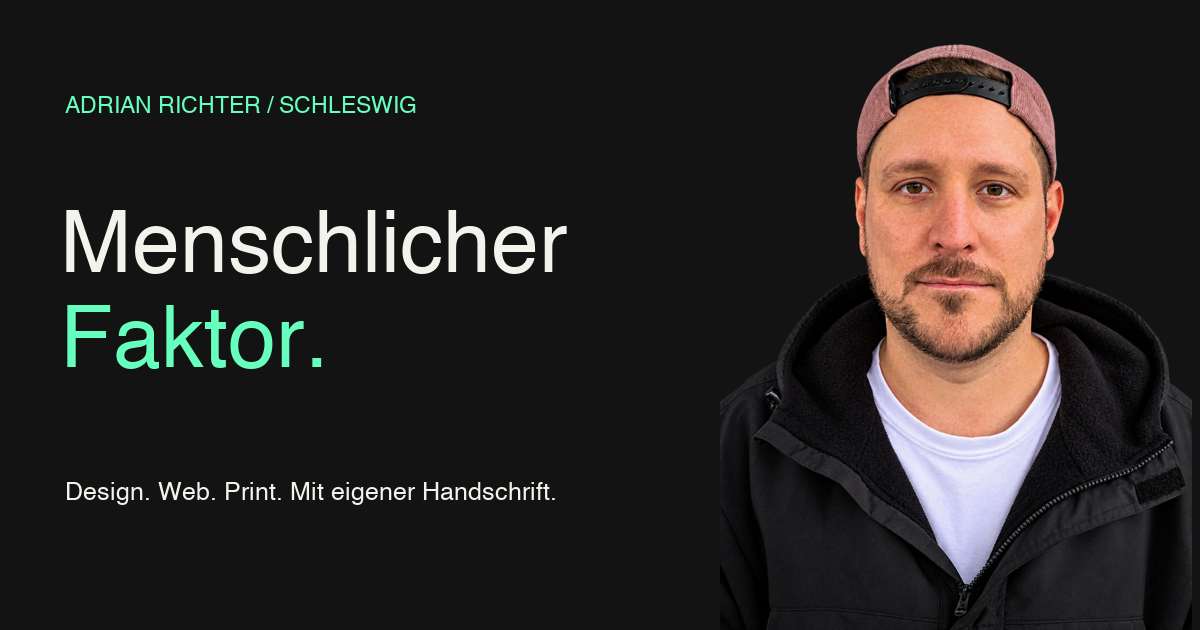
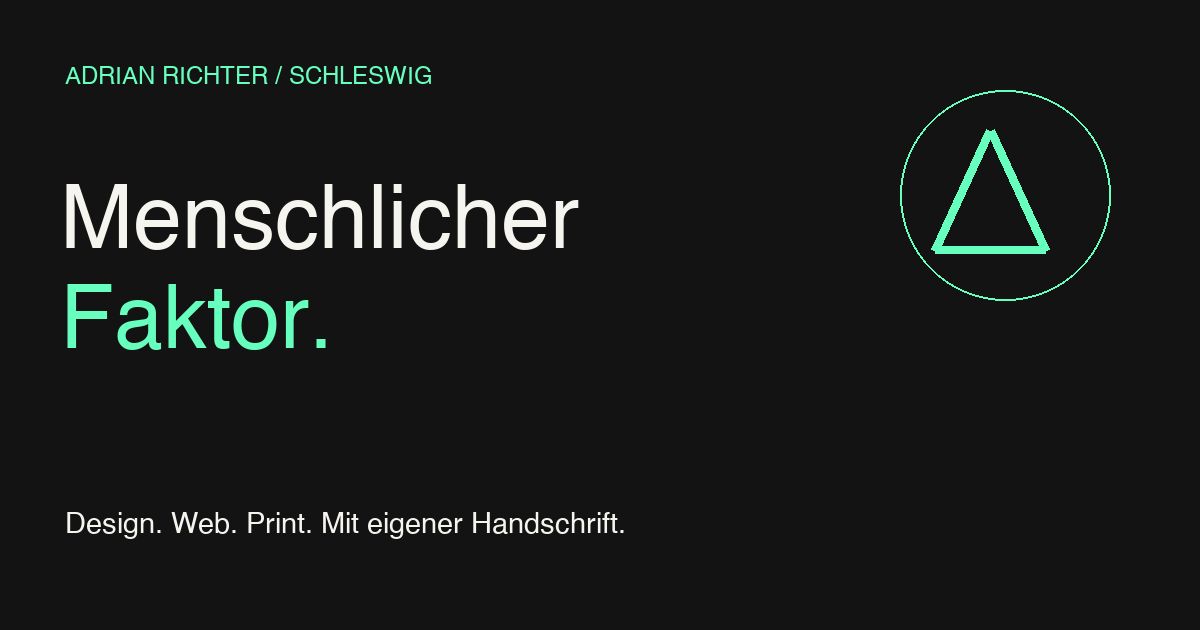
Remove personal portrait, private street address and mobile contact; use email only

diff --git a/index.html b/index.html
@@ -30,7 +30,6 @@
       "url": "https://adrian-richter.com/",
       "logo": "https://adrian-richter.com/assets/adrian-mark-v3.svg",
       "email": "info@adrian-richter.com",
-      "telephone": "+4915736156145",
       "address": {
         "@type": "PostalAddress",
         "addressLocality": "Schleswig",
@@ -200,7 +199,7 @@
 }
   </script>
   <meta name="google-site-verification" content="sLmgf6_W5lPfewiorRhV-o1hQEb-fwKDVVbG4sLzzjY">
-  <link rel="stylesheet" href="facelift.css?v=20261012-3">
+  <link rel="stylesheet" href="facelift.css?v=20261016-privacy">
   <meta property="og:image" content="https://adrian-richter.com/assets/social-card.png">
   <meta name="twitter:card" content="summary_large_image">
 </head>
@@ -238,14 +237,6 @@
         <p class="hero-intro">Technologie kann viel. Charakter braucht ein gutes Auge. Ich gestalte Marken, Websites und Print, die nach dir aussehen.</p>
         <div class="hero-actions"><a class="button button-primary" href="projekt-starten.html">Dein Projekt starten ↗</a><a class="text-link" href="#projekte">Arbeiten entdecken ↓</a></div>
         <p class="hero-caption">Menschliche Ideen. Digitale Möglichkeiten.</p><button class="motion-toggle" type="button" aria-pressed="false">Bewegung pausieren</button>
-      </div>
-      <div class="portrait-stage">
-        <div class="portrait-orbit" aria-hidden="true"></div>
-        <div class="portrait" id="portrait">
-          <img src="assets/adrian-human.webp" width="1024" height="1365" alt="Adrian Richter, Designer aus Schleswig, mit Cap und schwarzer Jacke" fetchpriority="high">
-          <img class="portrait-machine" src="assets/adrian-machine.webp" width="1024" height="1365" alt="" aria-hidden="true" loading="lazy">
-        </div>
-        <div class="portrait-label"><span>01 / HUMAN × MACHINE</span><button class="reveal-toggle" type="button" aria-pressed="false" aria-controls="portrait">Maschinenseite entdecken</button><small>Bewege den Zeiger über das Porträt · oder tippe auf den Button</small></div>
       </div>
       <div class="hero-index"><span>01 / Brand Design</span><span>02 / Webdesign</span><span>03 / Print & Editorial</span><span>04 / Textil</span></div>
     </section>
@@ -389,7 +380,7 @@
         <h2 id="services-title">Von der Idee bis zur Anwendung.</h2>
         <p>Kein Baukasten-Look. Ich entwickle Gestaltung, die zu deinem Unternehmen passt und auf Website, Papier und im Raum konsistent bleibt.</p>
         <h3>Webdesign und Grafikdesign aus Schleswig. Für den Norden.</h3>
-        <p>Mein Standort ist Schleswig. Ich begleite Unternehmen aus Schleswig und Umgebung sowie aus Eckernförde, Flensburg, Rendsburg, Kiel und Lübeck bei Webdesign, Logoentwicklung und Printgestaltung. Die Abstimmung läuft direkt mit mir — telefonisch, per E-Mail und digital.</p>
+        <p>Mein Standort ist Schleswig. Ich begleite Unternehmen aus Schleswig und Umgebung sowie aus Eckernförde, Flensburg, Rendsburg, Kiel und Lübeck bei Webdesign, Logoentwicklung und Printgestaltung. Die Abstimmung läuft direkt mit mir — per E-Mail.</p>
       </div>
       <ol class="service-list">
         <li class="reveal"><span>01</span><h3>Logo &amp; Corporate Design</h3><p>Ein eigener Auftritt für dein Unternehmen: Logoentwicklung, passende Farben und Typografie. Ein Corporate Design, das auf der Website, auf Visitenkarten und auf Werbemitteln zusammenpasst.</p></li>
@@ -418,14 +409,13 @@
       </div>
     </section>
 
-<section class="faq section" id="fragen" aria-labelledby="faq-title"><div class="section-head"><div><p class="eyebrow">Gut zu wissen / Antworten von Adrian Richter</p><h2 id="faq-title">Gute Fragen.<br>Klare Antworten.</h2></div><p>Über Websites, Logos, Corporate Identity und Druckgestaltung. Was du vor deinem Projekt wissen möchtest.</p></div><details><summary>Was kostet eine professionelle Website?</summary><p>Der Preis hängt von Umfang und Funktionen ab: Ein kompakter Unternehmensauftritt braucht weniger Aufwand als eine Website mit vielen Inhaltsseiten, individuellen Schnittstellen oder Buchungssystem. Konzept, Texte, Bilder, Gestaltung und technische Umsetzung gehören in die Kalkulation. Hosting, Domain und laufende Pflege sollten separat ausgewiesen sein. Beschreibe mir dein Vorhaben – du erhältst ein Angebot mit nachvollziehbarem Leistungsumfang.</p></details><details><summary>Kann ich mit KI selbst eine Website erstellen?</summary><p>Ja. Für einen ersten Entwurf oder einen einfachen Auftritt können KI-Werkzeuge hilfreich sein. Prüfe anschließend Inhalte, mobile Darstellung, Ladezeit, Bedienbarkeit und die technische Pflege. Für einen geschäftlichen Auftritt ist außerdem entscheidend, ob Gestaltung und Nutzerführung zu deiner Marke und deinen Kunden passen. Ich kann einen vorhandenen Entwurf prüfen oder daraus einen individuellen Auftritt entwickeln.</p></details><details><summary>Warum einen professionellen Designer beauftragen, wenn es KI gibt?</summary><p>KI liefert Varianten. Ein Designer bewertet, welche davon deine Botschaft verständlich macht und über verschiedene Medien hinweg funktioniert. Dazu gehören Lesbarkeit, Hierarchie, ein wiedererkennbares Erscheinungsbild und passende Druckdaten. Mein Beitrag ist die gestalterische Entscheidung und ein zusammenhängendes Ergebnis – mit KI dort, wo sie das Projekt sinnvoll unterstützt.</p></details><details><summary>Was ist der Unterschied zwischen Corporate Identity und Corporate Design?</summary><p>Corporate Identity umfasst die Identität eines Unternehmens: Werte, Verhalten, Sprache und Erscheinungsbild. Corporate Design ist der visuelle Teil davon, etwa Logo, Farben, Schriften, Bildsprache und Layoutregeln. Ein neues Logo allein ist deshalb noch keine vollständige CI. Gemeinsam klären wir, welchen Umfang dein Unternehmen tatsächlich braucht.</p></details><details><summary>Betreust du auch Unternehmen in Kiel und Eckernförde?</summary><p>Mein Standort ist Schleswig. Ich begleite auch Unternehmen aus Kiel, Eckernförde und anderen Orten in Schleswig-Holstein. Die Abstimmung erfolgt direkt mit mir per Telefon, E-Mail oder digital. Für ein erstes Gespräch brauche ich vor allem Informationen zu deinem Unternehmen, deiner Zielgruppe und deinem Vorhaben.</p></details><details><summary>Wie lange dauert es, eine Website erstellen zu lassen?</summary><p>Das richtet sich nach Seitenumfang, Funktionen und der Verfügbarkeit von Texten, Fotos und Rückmeldungen. Nach dem ersten Gespräch vereinbaren wir einen realistischen Ablauf mit Konzept, Entwurf, Umsetzung und gemeinsamer Prüfung. Nenne deinen Wunschtermin in der Projektanfrage, damit ich die Machbarkeit prüfen kann.</p></details><details><summary>Was macht eine gute Unternehmenswebsite aus?</summary><p>Besucher sollten schnell verstehen, was du anbietest, für wen du arbeitest und wie sie dich erreichen. Klare Inhalte, echte Referenzen, gut lesbare mobile Seiten und kurze Ladezeiten unterstützen das. Animationen ergänzen die Gestaltung, ohne Informationen oder Kontaktwege zu verdecken.</p></details><details><summary>Hilft Suchmaschinenoptimierung auch bei KI-Suchergebnissen?</summary><p>Klare, hilfreiche Inhalte und technisch zugängliche Seiten erleichtern Suchsystemen das Verständnis. Eindeutige Leistungen, nachvollziehbare Referenzen und konkrete Antworten sind dafür eine gute Grundlage. Eine bestimmte Position bei Google oder eine Nennung in KI-Antworten lässt sich jedoch nicht zusichern.</p></details><details><summary>Was brauchst du für eine Projektanfrage?</summary><p>Eine kurze Beschreibung deines Unternehmens, die gewünschte Leistung und dein Ziel reichen für den Einstieg. Hilfreich sind außerdem vorhandene Logos, eine bestehende Website, ein Wunschtermin und ein Budgetrahmen. Im Projektformular kannst du Branding, Webdesign, Print und DTF-Textildruck auswählen.</p></details><details><summary>Kann ich bei dir Flyer gestalten lassen?</summary><p>Ja. Ich gestalte Flyer, Faltblätter, Plakate, Visitenkarten und Broschüren passend zu deinem Unternehmen. Dazu gehören eine klare Aufteilung, gut lesbare Texte und druckfertige Daten. Sag mir, was beworben werden soll, welches Format du brauchst und ob Texte, Bilder oder ein Logo bereits vorhanden sind.</p></details><details><summary>Was kostet die Gestaltung eines Flyers oder Logos?</summary><p>Als grober Orientierungsrahmen können kleinere Grafikprojekte zwischen 100 und 800 Euro liegen – je nach Aufwand und vereinbartem Umfang. Ein einfacher Flyer mit fertigen Inhalten braucht weniger Zeit als ein individueller Entwurf mit Bildbearbeitung oder einer zusätzlichen Logoentwicklung. Bei Logos spielen unter anderem die gestalterische Komplexität, Varianten und gewünschte Anwendungen eine Rolle. Umfangreichere Projekte können darüber liegen. Du erhältst vorab ein individuelles Angebot; der Rahmen ist kein Pauschalpreis und umfasst nicht automatisch Druckkosten.</p></details><details><summary>Was gehört zu einem Corporate Design?</summary><p>Je nach Bedarf gehören Logo, Farbwelt, Schriften, Bildsprache und verbindliche Gestaltungsregeln dazu. Daraus können Vorlagen für Visitenkarten, Briefpapier, Social Media, Website oder Arbeitskleidung entstehen. Wir legen gemeinsam fest, welche Anwendungen du wirklich brauchst – damit dein Auftritt im Alltag zusammenpasst.</p></details><details><summary>Brauche ich als kleines Unternehmen eine komplette Corporate Identity?</summary><p>Nicht jedes Unternehmen braucht zum Start ein großes Markenhandbuch. Wichtig ist zuerst Klarheit darüber, wofür du stehst, wen du erreichen möchtest und wie du auftrittst. Ein passendes Logo mit einer durchdachten visuellen Basis kann ein sinnvoller Einstieg sein. Wenn Positionierung, Sprache und mehrere Anwendungen dazukommen, entwickeln wir den Umfang gemeinsam weiter.</p></details><details><summary>Kannst du mein vorhandenes Logo überarbeiten?</summary><p>Ja. Ob eine behutsame Überarbeitung oder eine Neuentwicklung sinnvoll ist, hängt von deinem Ziel und den vorhandenen Dateien ab. Wir schauen auf Lesbarkeit, Wiedererkennung und den Einsatz auf Website, Papier und Textilien. Vor Beginn klären wir, was erhalten bleibt und welche Dateien du am Ende benötigst.</p></details><details><summary>Übernimmst du auch Druckdaten und die Vorbereitung für die Druckerei?</summary><p>Ja. Ich bereite die vereinbarten Gestaltungsergebnisse passend zu den Vorgaben der Druckerei auf – etwa mit korrektem Format, Beschnitt und geeigneten Bilddaten. Ob nur die Gestaltung oder auch die Abstimmung zur Produktion gewünscht ist, klären wir im Angebot. Druck, Material und Versand werden getrennt vom Gestaltungsaufwand betrachtet.</p></details><details><summary>Was muss ich für einen Flyer oder ein Logo mitbringen?</summary><p>Hilfreich sind dein Unternehmensname, eine kurze Beschreibung deiner Zielgruppe, der gewünschte Einsatz und vorhandene Texte, Bilder oder Markenunterlagen. Für Flyer brauche ich außerdem Format, Inhalt und Termin. Wenn noch Material fehlt, klären wir gemeinsam, welche Unterstützung im Projektumfang enthalten sein soll.</p></details><p class="faq-next"><a class="text-link" href="projekt-starten.html">Deine Frage ist noch offen? Lass uns sprechen ↗</a></p></section>
+<section class="faq section" id="fragen" aria-labelledby="faq-title"><div class="section-head"><div><p class="eyebrow">Gut zu wissen / Antworten von Adrian Richter</p><h2 id="faq-title">Gute Fragen.<br>Klare Antworten.</h2></div><p>Über Websites, Logos, Corporate Identity und Druckgestaltung. Was du vor deinem Projekt wissen möchtest.</p></div><details><summary>Was kostet eine professionelle Website?</summary><p>Der Preis hängt von Umfang und Funktionen ab: Ein kompakter Unternehmensauftritt braucht weniger Aufwand als eine Website mit vielen Inhaltsseiten, individuellen Schnittstellen oder Buchungssystem. Konzept, Texte, Bilder, Gestaltung und technische Umsetzung gehören in die Kalkulation. Hosting, Domain und laufende Pflege sollten separat ausgewiesen sein. Beschreibe mir dein Vorhaben – du erhältst ein Angebot mit nachvollziehbarem Leistungsumfang.</p></details><details><summary>Kann ich mit KI selbst eine Website erstellen?</summary><p>Ja. Für einen ersten Entwurf oder einen einfachen Auftritt können KI-Werkzeuge hilfreich sein. Prüfe anschließend Inhalte, mobile Darstellung, Ladezeit, Bedienbarkeit und die technische Pflege. Für einen geschäftlichen Auftritt ist außerdem entscheidend, ob Gestaltung und Nutzerführung zu deiner Marke und deinen Kunden passen. Ich kann einen vorhandenen Entwurf prüfen oder daraus einen individuellen Auftritt entwickeln.</p></details><details><summary>Warum einen professionellen Designer beauftragen, wenn es KI gibt?</summary><p>KI liefert Varianten. Ein Designer bewertet, welche davon deine Botschaft verständlich macht und über verschiedene Medien hinweg funktioniert. Dazu gehören Lesbarkeit, Hierarchie, ein wiedererkennbares Erscheinungsbild und passende Druckdaten. Mein Beitrag ist die gestalterische Entscheidung und ein zusammenhängendes Ergebnis – mit KI dort, wo sie das Projekt sinnvoll unterstützt.</p></details><details><summary>Was ist der Unterschied zwischen Corporate Identity und Corporate Design?</summary><p>Corporate Identity umfasst die Identität eines Unternehmens: Werte, Verhalten, Sprache und Erscheinungsbild. Corporate Design ist der visuelle Teil davon, etwa Logo, Farben, Schriften, Bildsprache und Layoutregeln. Ein neues Logo allein ist deshalb noch keine vollständige CI. Gemeinsam klären wir, welchen Umfang dein Unternehmen tatsächlich braucht.</p></details><details><summary>Betreust du auch Unternehmen in Kiel und Eckernförde?</summary><p>Mein Standort ist Schleswig. Ich begleite auch Unternehmen aus Kiel, Eckernförde und anderen Orten in Schleswig-Holstein. Die Abstimmung erfolgt direkt mit mir per E-Mail. Für ein erstes Gespräch brauche ich vor allem Informationen zu deinem Unternehmen, deiner Zielgruppe und deinem Vorhaben.</p></details><details><summary>Wie lange dauert es, eine Website erstellen zu lassen?</summary><p>Das richtet sich nach Seitenumfang, Funktionen und der Verfügbarkeit von Texten, Fotos und Rückmeldungen. Nach dem ersten Gespräch vereinbaren wir einen realistischen Ablauf mit Konzept, Entwurf, Umsetzung und gemeinsamer Prüfung. Nenne deinen Wunschtermin in der Projektanfrage, damit ich die Machbarkeit prüfen kann.</p></details><details><summary>Was macht eine gute Unternehmenswebsite aus?</summary><p>Besucher sollten schnell verstehen, was du anbietest, für wen du arbeitest und wie sie dich erreichen. Klare Inhalte, echte Referenzen, gut lesbare mobile Seiten und kurze Ladezeiten unterstützen das. Animationen ergänzen die Gestaltung, ohne Informationen oder Kontaktwege zu verdecken.</p></details><details><summary>Hilft Suchmaschinenoptimierung auch bei KI-Suchergebnissen?</summary><p>Klare, hilfreiche Inhalte und technisch zugängliche Seiten erleichtern Suchsystemen das Verständnis. Eindeutige Leistungen, nachvollziehbare Referenzen und konkrete Antworten sind dafür eine gute Grundlage. Eine bestimmte Position bei Google oder eine Nennung in KI-Antworten lässt sich jedoch nicht zusichern.</p></details><details><summary>Was brauchst du für eine Projektanfrage?</summary><p>Eine kurze Beschreibung deines Unternehmens, die gewünschte Leistung und dein Ziel reichen für den Einstieg. Hilfreich sind außerdem vorhandene Logos, eine bestehende Website, ein Wunschtermin und ein Budgetrahmen. Im Projektformular kannst du Branding, Webdesign, Print und DTF-Textildruck auswählen.</p></details><details><summary>Kann ich bei dir Flyer gestalten lassen?</summary><p>Ja. Ich gestalte Flyer, Faltblätter, Plakate, Visitenkarten und Broschüren passend zu deinem Unternehmen. Dazu gehören eine klare Aufteilung, gut lesbare Texte und druckfertige Daten. Sag mir, was beworben werden soll, welches Format du brauchst und ob Texte, Bilder oder ein Logo bereits vorhanden sind.</p></details><details><summary>Was kostet die Gestaltung eines Flyers oder Logos?</summary><p>Als grober Orientierungsrahmen können kleinere Grafikprojekte zwischen 100 und 800 Euro liegen – je nach Aufwand und vereinbartem Umfang. Ein einfacher Flyer mit fertigen Inhalten braucht weniger Zeit als ein individueller Entwurf mit Bildbearbeitung oder einer zusätzlichen Logoentwicklung. Bei Logos spielen unter anderem die gestalterische Komplexität, Varianten und gewünschte Anwendungen eine Rolle. Umfangreichere Projekte können darüber liegen. Du erhältst vorab ein individuelles Angebot; der Rahmen ist kein Pauschalpreis und umfasst nicht automatisch Druckkosten.</p></details><details><summary>Was gehört zu einem Corporate Design?</summary><p>Je nach Bedarf gehören Logo, Farbwelt, Schriften, Bildsprache und verbindliche Gestaltungsregeln dazu. Daraus können Vorlagen für Visitenkarten, Briefpapier, Social Media, Website oder Arbeitskleidung entstehen. Wir legen gemeinsam fest, welche Anwendungen du wirklich brauchst – damit dein Auftritt im Alltag zusammenpasst.</p></details><details><summary>Brauche ich als kleines Unternehmen eine komplette Corporate Identity?</summary><p>Nicht jedes Unternehmen braucht zum Start ein großes Markenhandbuch. Wichtig ist zuerst Klarheit darüber, wofür du stehst, wen du erreichen möchtest und wie du auftrittst. Ein passendes Logo mit einer durchdachten visuellen Basis kann ein sinnvoller Einstieg sein. Wenn Positionierung, Sprache und mehrere Anwendungen dazukommen, entwickeln wir den Umfang gemeinsam weiter.</p></details><details><summary>Kannst du mein vorhandenes Logo überarbeiten?</summary><p>Ja. Ob eine behutsame Überarbeitung oder eine Neuentwicklung sinnvoll ist, hängt von deinem Ziel und den vorhandenen Dateien ab. Wir schauen auf Lesbarkeit, Wiedererkennung und den Einsatz auf Website, Papier und Textilien. Vor Beginn klären wir, was erhalten bleibt und welche Dateien du am Ende benötigst.</p></details><details><summary>Übernimmst du auch Druckdaten und die Vorbereitung für die Druckerei?</summary><p>Ja. Ich bereite die vereinbarten Gestaltungsergebnisse passend zu den Vorgaben der Druckerei auf – etwa mit korrektem Format, Beschnitt und geeigneten Bilddaten. Ob nur die Gestaltung oder auch die Abstimmung zur Produktion gewünscht ist, klären wir im Angebot. Druck, Material und Versand werden getrennt vom Gestaltungsaufwand betrachtet.</p></details><details><summary>Was muss ich für einen Flyer oder ein Logo mitbringen?</summary><p>Hilfreich sind dein Unternehmensname, eine kurze Beschreibung deiner Zielgruppe, der gewünschte Einsatz und vorhandene Texte, Bilder oder Markenunterlagen. Für Flyer brauche ich außerdem Format, Inhalt und Termin. Wenn noch Material fehlt, klären wir gemeinsam, welche Unterstützung im Projektumfang enthalten sein soll.</p></details><p class="faq-next"><a class="text-link" href="projekt-starten.html">Deine Frage ist noch offen? Schreib mir ↗</a></p></section>
     <section class="contact section" id="kontakt" aria-labelledby="contact-title">
       <p class="eyebrow">Lass uns loslegen</p>
       <h2 id="contact-title">Dein nächstes Projekt verdient einen starken Auftritt.</h2>
       <a class="button button-primary contact-cta" href="projekt-starten.html">Projekt starten <span aria-hidden="true">↗</span></a>
       <div class="contact-row">
         <a href="mailto:info@adrian-richter.com?subject=Projektanfrage%20über%20adrian-richter.com">info@adrian-richter.com <span aria-hidden="true">↗</span></a>
-        <a href="tel:+4915736156145">0157 361 561 45</a>
       </div>
     </section>
   </main>
@@ -451,6 +441,6 @@
   </aside>
 
   <script src="script.js?v=20260930-4"></script>
-  <script src="facelift.js?v=20261012-2" defer></script>
+  <script src="facelift.js?v=20261016-privacy" defer></script>
 </body>
 </html>

diff --git a/webdesign-schleswig.html b/webdesign-schleswig.html
@@ -20,7 +20,7 @@
     </nav>
   </header>
 
-<main id="main" class="service-page section"><p class="eyebrow">AR.DESIGN / Adrian Richter</p><h1>Webdesign aus Schleswig.</h1><p class="service-lead">Dein Unternehmen ist eigenständig. Deine Website sollte es auch sein.</p><a class="button button-primary" href="projekt-starten.html">Projekt besprechen ↗</a><div class="service-content"><section><h2>Eine Website beginnt mit deinen Kunden</h2><p>Welche Informationen suchen Besucher? Welche Fragen müssen beantwortet werden, bevor jemand Kontakt aufnimmt? Daraus entwickle ich die Seitenstruktur und eine Gestaltung, die zu deinem Unternehmen passt. Vom kompakten Auftritt bis zum Relaunch einer bestehenden Website.</p></section><section><h2>Gestaltung und Technik gehören zusammen</h2><p>Lesbare Typografie, eine verständliche Navigation und eine gute Darstellung auf Smartphone und Desktop sind Teil des Entwurfs. Ich plane Inhalte, Bilder und Animationen so, dass die Website auch bei schmalen Bildschirmen und langsamen Verbindungen nutzbar bleibt.</p></section><section><h2>Webdesigner für Kiel und Eckernförde – mit Basis in Schleswig</h2><p>Du arbeitest in Kiel, Eckernförde oder anderswo in Schleswig-Holstein? Die Abstimmung läuft persönlich mit mir, telefonisch, per E-Mail und digital. Als Referenzen findest du auf der Startseite unter anderem Zimmerei Kaack und Die Medienwerkstatt.</p></section><section><h2>Was wir vor dem Start klären</h2><p>Zielgruppe, Seitenumfang, vorhandene Inhalte, gewünschte Funktionen, Zeitrahmen und Pflege nach dem Start. Damit du weißt, was im Angebot enthalten ist und welche laufenden Aufgaben hinzukommen. Konkrete Antworten zu Kosten und KI-Websites findest du in den FAQs.</p></section></div><nav class="service-related" aria-label="Weiterlesen"><a href="index.html#projekte">Ausgewählte Projekte ↗</a><a href="index.html#fragen">Häufige Fragen ↗</a><a href="grafikdesign-schleswig.html">Weitere Leistungen ↗</a></nav></main>  <footer class="site-footer">
+<main id="main" class="service-page section"><p class="eyebrow">AR.DESIGN / Adrian Richter</p><h1>Webdesign aus Schleswig.</h1><p class="service-lead">Dein Unternehmen ist eigenständig. Deine Website sollte es auch sein.</p><a class="button button-primary" href="projekt-starten.html">Projekt besprechen ↗</a><div class="service-content"><section><h2>Eine Website beginnt mit deinen Kunden</h2><p>Welche Informationen suchen Besucher? Welche Fragen müssen beantwortet werden, bevor jemand Kontakt aufnimmt? Daraus entwickle ich die Seitenstruktur und eine Gestaltung, die zu deinem Unternehmen passt. Vom kompakten Auftritt bis zum Relaunch einer bestehenden Website.</p></section><section><h2>Gestaltung und Technik gehören zusammen</h2><p>Lesbare Typografie, eine verständliche Navigation und eine gute Darstellung auf Smartphone und Desktop sind Teil des Entwurfs. Ich plane Inhalte, Bilder und Animationen so, dass die Website auch bei schmalen Bildschirmen und langsamen Verbindungen nutzbar bleibt.</p></section><section><h2>Webdesigner für Kiel und Eckernförde – mit Basis in Schleswig</h2><p>Du arbeitest in Kiel, Eckernförde oder anderswo in Schleswig-Holstein? Die Abstimmung läuft persönlich mit mir, per E-Mail. Als Referenzen findest du auf der Startseite unter anderem Zimmerei Kaack und Die Medienwerkstatt.</p></section><section><h2>Was wir vor dem Start klären</h2><p>Zielgruppe, Seitenumfang, vorhandene Inhalte, gewünschte Funktionen, Zeitrahmen und Pflege nach dem Start. Damit du weißt, was im Angebot enthalten ist und welche laufenden Aufgaben hinzukommen. Konkrete Antworten zu Kosten und KI-Websites findest du in den FAQs.</p></section></div><nav class="service-related" aria-label="Weiterlesen"><a href="index.html#projekte">Ausgewählte Projekte ↗</a><a href="index.html#fragen">Häufige Fragen ↗</a><a href="grafikdesign-schleswig.html">Weitere Leistungen ↗</a></nav></main>  <footer class="site-footer">
     <p>Adrian Richter · Grafik, Web &amp; Textil</p>
     <nav class="footer-links" aria-label="Rechtliche Hinweise">
       <a href="impressum.html">Impressum</a>

diff --git a/facelift.js b/facelift.js
@@ -1,32 +1,5 @@
 (() => {
   const reduced = matchMedia('(prefers-reduced-motion: reduce)');
-  const portrait = document.querySelector('#portrait');
-  const toggle = document.querySelector('.reveal-toggle');
-  let frame = 0, lastPoint;
-  if (portrait && toggle) {
-    const machine = portrait.querySelector('.portrait-machine');
-    const update = () => {
-      frame = 0;
-      if (!lastPoint || reduced.matches) return;
-      const bounds = portrait.getBoundingClientRect();
-      portrait.style.setProperty('--mx', `${lastPoint.x - bounds.left}px`);
-      portrait.style.setProperty('--my', `${lastPoint.y - bounds.top}px`);
-    };
-    portrait.addEventListener('pointermove', (event) => {
-      if (event.pointerType === 'touch' || reduced.matches) return;
-      lastPoint = { x: event.clientX, y: event.clientY };
-      if (machine.complete && machine.naturalWidth) portrait.classList.add('is-revealing');
-      if (!frame) frame = requestAnimationFrame(update);
-    }, { passive: true });
-    portrait.addEventListener('pointerleave', () => portrait.classList.remove('is-revealing'));
-    toggle.addEventListener('click', () => {
-      const active = toggle.getAttribute('aria-pressed') !== 'true';
-      toggle.setAttribute('aria-pressed', String(active));
-      toggle.textContent = active ? 'Menschenseite zeigen' : 'Maschinenseite entdecken';
-      portrait.classList.toggle('is-machine', active);
-    });
-    machine.addEventListener('error', () => { toggle.hidden = true; portrait.classList.remove('is-machine','is-revealing'); });
-  }
   const motionToggle = document.querySelector('.motion-toggle');
   let paused = false;
   motionToggle?.addEventListener('click', () => {
@@ -34,7 +7,6 @@
     document.documentElement.classList.toggle('motion-paused', paused);
     motionToggle.setAttribute('aria-pressed', String(paused));
     motionToggle.textContent = paused ? 'Bewegung aktivieren' : 'Bewegung pausieren';
-    portrait?.style.setProperty('--portrait-shift', '0px');
     configureMotion();
   });
   let observer;
@@ -51,19 +23,6 @@
     });
   };
   configureMotion(); reduced.addEventListener('change', configureMotion);
-  // One update per paint, only while the hero is visible. Native scrolling stays intact.
-  const hero = document.querySelector('.human-hero');
-  let heroVisible = true, scrollFrame = 0;
-  if (hero && portrait && 'IntersectionObserver' in window) {
-    new IntersectionObserver(([entry]) => { heroVisible = entry.isIntersecting; }).observe(hero);
-    addEventListener('scroll', () => {
-      if (paused || scrollFrame || !heroVisible || reduced.matches || innerWidth < 1000) return;
-      scrollFrame = requestAnimationFrame(() => {
-        portrait.style.setProperty('--portrait-shift', `${Math.min(60, scrollY * .09)}px`);
-        scrollFrame = 0;
-      });
-    }, { passive: true });
-  }
 })();
 
 // A damped spring follows the real pointer; it never intercepts clicks or replaces it.

diff --git a/projekt-starten.html b/projekt-starten.html
@@ -44,14 +44,13 @@
       <div class="request-hero-copy">
         <p class="eyebrow">Projektanfrage · unkompliziert & persönlich</p>
         <h1 id="request-title">Erzähl mir,<br><span>was du vorhast.</span></h1>
-        <p class="request-hero-intro">Ein paar Eckdaten reichen für den Anfang. Ich schaue mir deine Anfrage persönlich an und melde mich mit den passenden nächsten Schritten.</p>
+        <p class="request-hero-intro">Kontakt ausschließlich per E-Mail. Ein paar Eckdaten reichen für den Anfang. Ich schaue mir deine Anfrage persönlich an und melde mich mit den passenden nächsten Schritten.</p>
       </div>
       <aside class="request-contact-card" aria-label="Direkter Kontakt">
-        <p class="eyebrow">Lieber direkt sprechen?</p>
+        <p class="eyebrow">Direkt per E-Mail</p>
         <h2>Moin Adrian.</h2>
         <div class="request-contact-links">
           <a href="mailto:info@adrian-richter.com">info@adrian-richter.com <span aria-hidden="true">↗</span></a>
-          <a href="tel:+4915736156145">0157 361 561 45</a>
         </div>
       </aside>
     </section>
@@ -92,10 +91,6 @@
               <div class="field">
                 <label for="email">E-Mail <span class="required-mark">*</span></label>
                 <input id="email" name="email" type="email" autocomplete="email" inputmode="email" required>
-              </div>
-              <div class="field">
-                <label for="phone">Telefon <span>(optional)</span></label>
-                <input id="phone" name="Telefon" type="tel" autocomplete="tel" inputmode="tel">
               </div>
             </div>
           </fieldset>

diff --git a/datenschutz.html b/datenschutz.html
@@ -43,10 +43,8 @@
           <address>
             <strong>Adrian Richter</strong><br>
             AR.DESIGN · Mediengestaltung<br>
-            Töpferstraße 14<br>
             24837 Schleswig<br>
             E-Mail: <a href="mailto:info@adrian-richter.com">info@adrian-richter.com</a><br>
-            Telefon: <a href="tel:+4915736156145">0157 361 561 45</a>
           </address>
         </section>
 
@@ -59,7 +57,7 @@
 
         <section>
           <h2>3. Kontaktaufnahme</h2>
-          <p>Wenn du mich per E-Mail oder Telefon kontaktierst, verarbeite ich deine Angaben zur Bearbeitung der Anfrage und für mögliche Anschlussfragen. Rechtsgrundlage ist Art. 6 Abs. 1 lit. b DSGVO, soweit es um vorvertragliche oder vertragliche Kommunikation geht; in anderen Fällen Art. 6 Abs. 1 lit. f DSGVO. Mein berechtigtes Interesse ist die sachgerechte Beantwortung von Anfragen.</p>
+          <p>Wenn du mich per E-Mail kontaktierst, verarbeite ich deine Angaben zur Bearbeitung der Anfrage und für mögliche Anschlussfragen. Rechtsgrundlage ist Art. 6 Abs. 1 lit. b DSGVO, soweit es um vorvertragliche oder vertragliche Kommunikation geht; in anderen Fällen Art. 6 Abs. 1 lit. f DSGVO. Mein berechtigtes Interesse ist die sachgerechte Beantwortung von Anfragen.</p>
           <p>Die Daten werden gelöscht, sobald sie für die Bearbeitung nicht mehr erforderlich sind und keine gesetzlichen Aufbewahrungspflichten oder berechtigten Interessen an einer weiteren Speicherung bestehen.</p>
         </section>
 

diff --git a/impressum.html b/impressum.html
@@ -43,7 +43,6 @@
           <address>
             <strong>Adrian Richter</strong><br>
             AR.DESIGN · Mediengestaltung<br>
-            Töpferstraße 14<br>
             24837 Schleswig<br>
             Deutschland
           </address>
@@ -52,7 +51,6 @@
         <section>
           <h2>Kontakt</h2>
           <p>
-            Telefon: <a href="tel:+4915736156145">0157 361 561 45</a><br>
             E-Mail: <a href="mailto:info@adrian-richter.com">info@adrian-richter.com</a>
           </p>
         </section>
@@ -62,7 +60,6 @@
           <p>Verantwortlich für den Inhalt nach § 18 Abs. 2 MStV:</p>
           <address>
             Adrian Richter<br>
-            Töpferstraße 14<br>
             24837 Schleswig
           </address>
         </section>

diff --git a/facelift.css b/facelift.css
@@ -114,3 +114,9 @@ html { scroll-padding-top: 100px; }
 .hero-atmosphere span:nth-child(30) { left:79%;top:7%;animation-delay:-6.0s;animation-duration:5.5s; }
 .hero-atmosphere span:nth-child(31) { left:22%;top:30%;animation-delay:-7.7s;animation-duration:6.1s; }
 .hero-atmosphere span:nth-child(32) { left:59%;top:53%;animation-delay:-0.4s;animation-duration:6.7s; }
+
+
+/* Privacy update: spacious typography-led hero without personal imagery. */
+.human-hero { grid-template-columns:1fr; }
+.human-hero .hero-copy { width:min(100%,1200px); padding:clamp(65px,9vw,130px) clamp(24px,5vw,80px) 85px; }
+.human-hero .hero-intro { max-width:40rem; }
